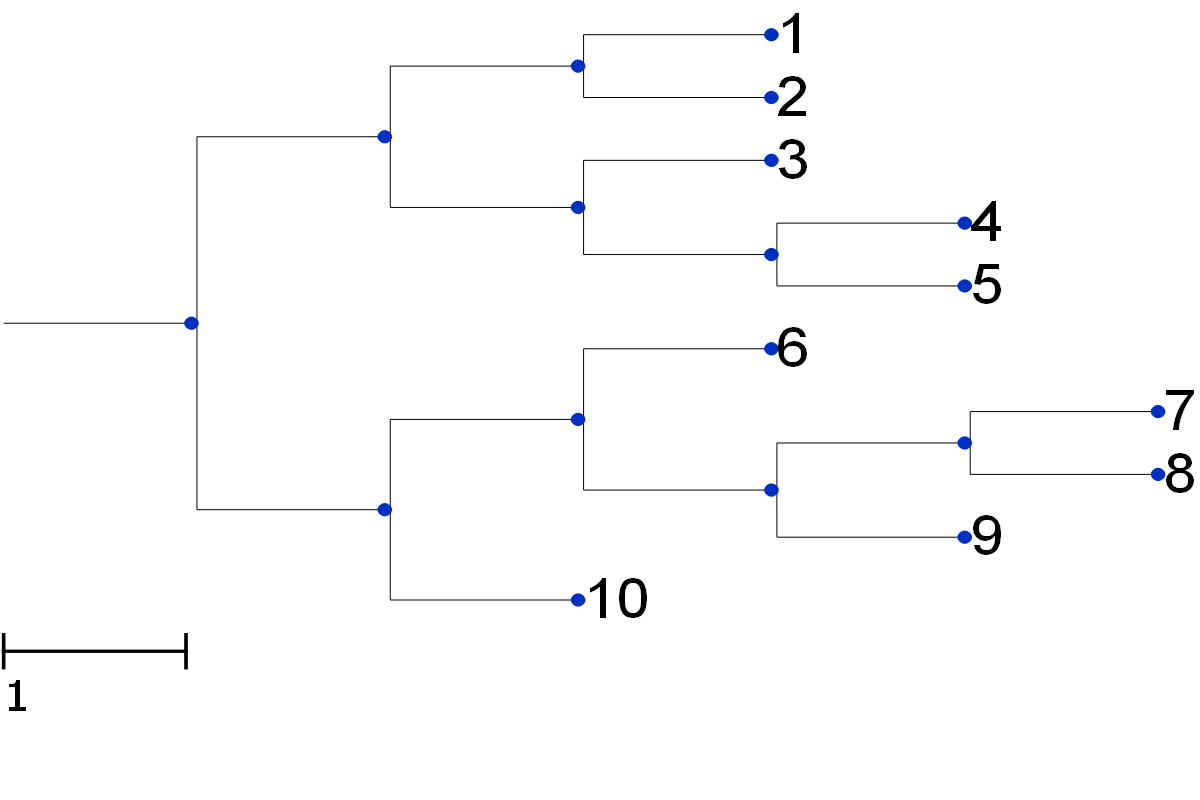
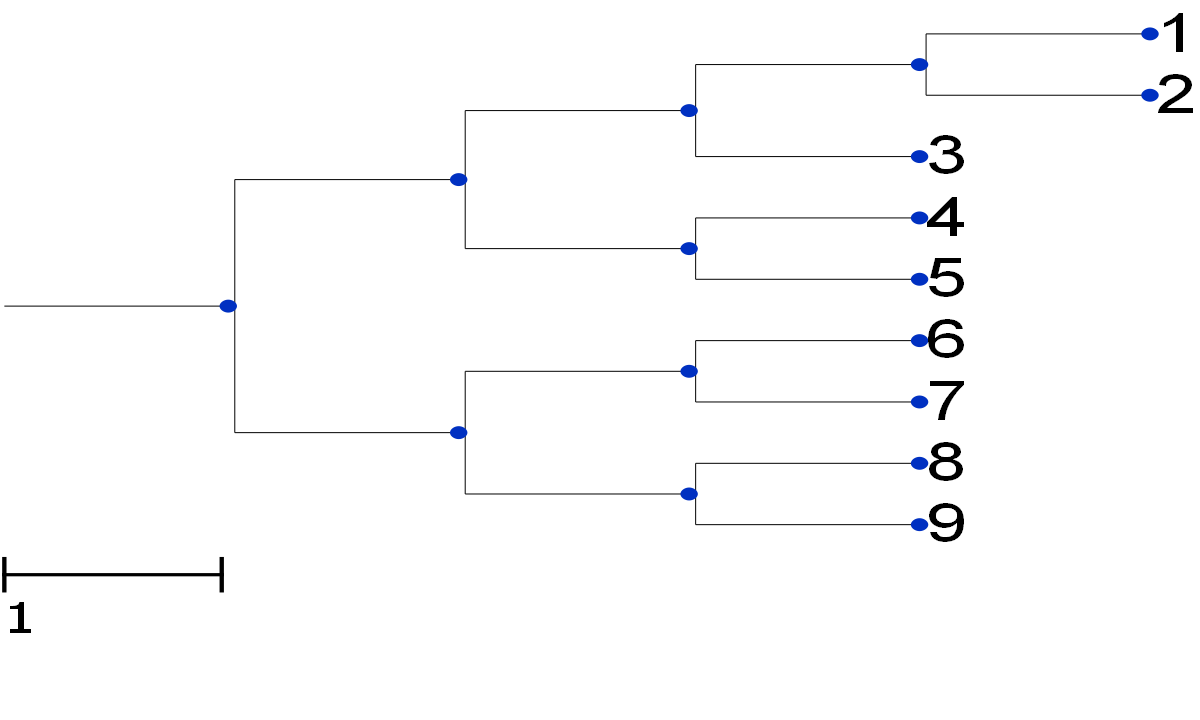
Mise à jour du projet

diff --git a/static/script_phylo.js b/static/script_phylo.js
@@ -347,6 +347,8 @@ function genererQuiz(mapping) {
         const ligne =
             document.createElement("div");
 
+        ligne.style.marginBottom = "2px";
+
         let html =
             "<b>" + numero + "</b> → ";
 
@@ -380,15 +382,15 @@ function genererQuiz(mapping) {
 
         ligne.innerHTML = html;
 
-quiz.appendChild(ligne);
+        quiz.appendChild(ligne);
 
-const select =
-    ligne.querySelector("select");
+        const select =
+            ligne.querySelector("select");
 
-select.addEventListener(
-    "change",
-    gererDoublons
-);
+        select.addEventListener(
+            "change",
+            gererDoublons
+        );
     }
 }
 // =========================
@@ -662,100 +664,60 @@ const tirage =
 
 function lancerTirageDouble() {
 
-    loadCSV(
-        function(rows) {
+    loadCSV(function(rows) {
 
-            buildEspeceTable(rows);
+        buildEspeceTable(rows);
 
-            const select =
-                document.getElementById(
-                    "selectCouples"
-                );
+        const groupe1 =
+            document.getElementById(
+                "groupe1"
+            ).value;
 
-            const couples =
-                [...select.options]
-                .filter(
-                    o => o.selected
-                )
-                .flatMap(
-                    o => o.value.split(",")
-                );
+        const groupe2 =
+            document.getElementById(
+                "groupe2"
+            ).value;
 
-            if (
-                couples.length === 0
-            ) {
+        if (groupe1 === groupe2) {
 
-                alert(
-                    "Aucun groupe sélectionné"
-                );
-
-                return;
-            }
-
-            const groups =
-    buildGroups();
-
-const nombre =
-    getNombreTirage();
-
-// =========================
-// Construction du pool
-// =========================
-
-let pool = [];
-
-couples.forEach(g => {
-
-    if (groups[g]) {
-
-        pool = pool.concat(
-            groups[g]
-        );
-    }
-});
-
-// =========================
-// Suppression des doublons
-// =========================
-
-pool = [
-    ...new Map(
-        pool.map(
-            e => [e.id, e]
-        )
-    ).values()
-];
-
-// =========================
-// Vérification du nombre
-// =========================
-
-if (pool.length < nombre) {
-
-    alert(
-        "Seulement " +
-        pool.length +
-        " espèces disponibles dans la sélection."
-    );
-
-    return;
-}
-
-// =========================
-// Tirage
-// =========================
-
-const tirage =
-    tirageAleatoire(
-        pool,
-        nombre
-    );
-
-            afficherResultats(
-                tirage
+            alert(
+                "Choisis deux groupes différents."
             );
+
+            return;
         }
-    );
+
+        const groups =
+            buildGroups();
+
+        const nombre =
+            getNombreTirage();
+
+        const nb1 =
+            Math.floor(nombre / 2);
+
+        const nb2 =
+            nombre - nb1;
+
+        const tirage1 =
+            tirageAleatoire(
+                groups[groupe1],
+                nb1
+            );
+
+        const tirage2 =
+            tirageAleatoire(
+                groups[groupe2],
+                nb2
+            );
+
+        const tirage =
+            [...tirage1, ...tirage2];
+
+        afficherResultats(
+            tirage
+        );
+    });
 }
 
 

diff --git a/templates/Phylo.html b/templates/Phylo.html
@@ -11,8 +11,6 @@
 
     <h1>Tirage d'espèces</h1>
 
-
-
     <p>Nombre d'espèces à tirer :</p>
 
     <select id="selectTirage">
@@ -26,6 +24,8 @@
     </select>
 
     <br><br>
+
+    <h3>Tirage simple</h3>
 
     <p>Groupes d'espèces :</p>
 
@@ -46,44 +46,42 @@
         Tirer les espèces
     </button>
 
+    <hr>
+
+    <h3>Double tirage</h3>
+
+    <label>Groupe 1 :</label>
+
+    <select id="groupe1">
+        <option value="Marsupiaux">Marsupiaux</option>
+        <option value="Mammifères">Mammifères</option>
+        <option value="Oiseaux">Oiseaux</option>
+        <option value="Reptiles">Reptiles</option>
+        <option value="Poisson">Poisson</option>
+        <option value="Invertébrés">Invertébrés</option>
+        <option value="Plantes">Plantes</option>
+        <option value="Champignons">Champignons</option>
+    </select>
+
     <br><br>
 
-    <p>Groupes combinés :</p>
+    <label>Groupe 2 :</label>
 
-    <select id="selectCouples" multiple size="4">
-        <option value="Marsupiaux,Mammifères">
-            Marsupiaux et Mammifères
-        </option>
-
-        <option value="Oiseaux,Reptiles">
-            Oiseaux et Reptiles
-        </option>
-
-        <option value="Poisson,Invertébrés">
-            Poisson et Invertébrés
-        </option>
-
-        <option value="Plantes,Champignons">
-            Plantes et Champignons
-        </option>
+    <select id="groupe2">
+        <option value="Marsupiaux">Marsupiaux</option>
+        <option value="Mammifères">Mammifères</option>
+        <option value="Oiseaux">Oiseaux</option>
+        <option value="Reptiles">Reptiles</option>
+        <option value="Poisson">Poisson</option>
+        <option value="Invertébrés">Invertébrés</option>
+        <option value="Plantes">Plantes</option>
+        <option value="Champignons">Champignons</option>
     </select>
 
     <br><br>
 
     <button onclick="lancerTirageDouble()">
-        Tirer les espèces
-    </button>
-
-    <hr>
-
-    <h2>Résultats</h2>
-
-    <div id="resultats"></div>
-
-    <br>
-
-    <button id="btnDownload" style="display:none;">
-        Télécharger les TaxIDs
+        Lancer le double tirage
     </button>
 
     <hr>
@@ -91,13 +89,18 @@
     <h2>Arbre phylogénétique</h2>
 
     <div id="tree-container"
-     style="
-        width:100%;
-        text-align:center;
-        overflow:auto;
-        max-height:900px;
-     ">
-</div>
+         style="width:100%;text-align:center;">
+    </div>
+
+    <hr>
+
+    <h2>Espèces tirées</h2>
+
+    <div id="resultats"></div>
+
+    <button id="btnDownload" style="display:none;">
+        Télécharger les TaxIDs
+    </button>
 
     <hr>
 
@@ -126,4 +129,5 @@
     <script src="https://cdn.jsdelivr.net/gh/SmitsP/phyloCanvas/jsphylosvg-min.js"></script>
 
 </body>
+
 </html>